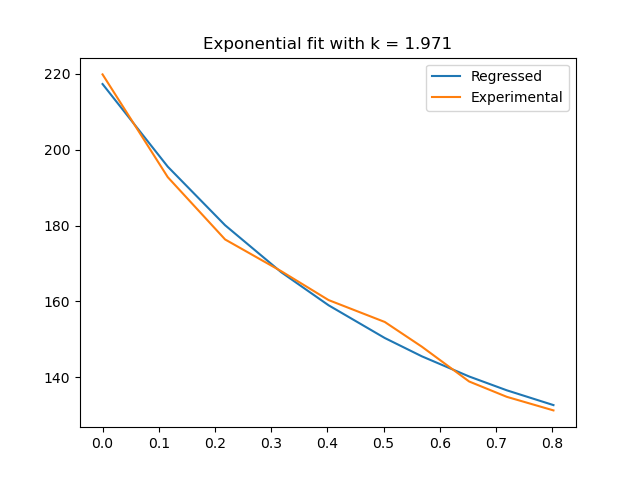
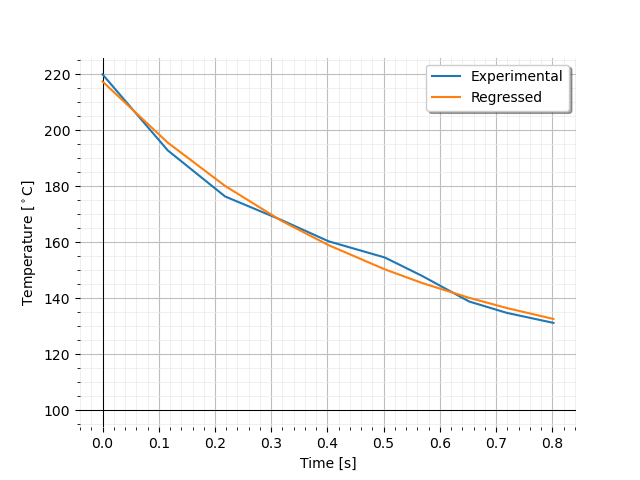
optimized cooling rate script

diff --git a/temperature_history.py b/temperature_history.py
@@ -14,12 +14,12 @@ is going to record the temperature of the point that measurement line 4 recorded
 
 '''
 To generate data:
-  pass the tow and the corresponding time array to the function get_temp_history(tow, time)
+  pass the time and tow arrays as well as the number of the tow to the function get_temp_history(time, tow, townum)
   returns:
       point_time -> array containing the time history of the point
       point_temp -> array containing the temperature history of the point
 
-version date: 27.04.2020
+version date: 11.05.2020
 Alex
 
 '''
@@ -65,230 +65,89 @@ def get_distances(tow, time):
     distances = []
     for i in range(len(times)):
         try:
-            dist = (times[i + 1] - times[i]) * Vel
+            dist = (float(times[i + 1]) - float(times[i])) * Vel
             distances.append(dist)
         except:
             pass
 
-    return distances
+    return np.asarray(distances)
 
 #Helper function, find the element in an array that is nearest to a specific value
 def find_nearest(array,value):
     idx = np.searchsorted(array, value, side="left")
     if idx > 0 and (idx == len(array) or np.absolute(value - array[idx-1]) < np.absolute(value - array[idx])):
-        return array[idx-1]
+        return idx-1
     else:
-        return array[idx]
+        return idx
 
 
 #Final function returns the shifted time (stating from 0) and temperature histories
-def get_temp_history(tow, time):
-    distances = np.array(get_distances(tow, time))
-    time_dist = distances / Vel
+def get_temp_history(time, tow, townum, sample_idx=400):
+    distances = line_distances[townum-1]
+    time_dist = np.zeros(numLines)
+    time_dist[1:] = distances / Vel
 
     for i in range(1, len(time_dist)):
-        try:
-            time_dist[i] += time_dist[i - 1]
-        except:
-            pass
+        time_dist[i] += time_dist[i - 1]
 
-    start_time = time[400]
-    point_time = [time[400]]
-    point_temp = [tow[0][400]]
+    start_time = time[sample_idx]
+    
+    point_temp = np.zeros(numLines)
+    point_temp[0] = tow[0][sample_idx]
 
     time_offset = time_dist + start_time
-    time_offset = list(time_offset.flatten())
-
-    index_table = []
-    for i in range(len(time_offset)):
-        idx = find_nearest(time, time_offset[i])
-        index_table.append(np.where(time==idx))
-
-
-    for i in range(len(time_offset)):
-        temp = float(tow[i + 1][index_table[i]])
-        point_temp.append(temp)
-
-    point_time += time_offset
+    index_table = np.zeros(numLines - 1, dtype=np.int32)
     
-    time_dist = list(time_dist.flatten())
-    time_dist.insert(0, 0)
-    
+    for i in range(len(time_offset) - 1):
+        idx = find_nearest(time, time_offset[i + 1])
+        index_table[i] = idx
+
+    for i in range(len(index_table)):
+        temp = tow[i + 1][index_table[i]]
+        point_temp[i + 1] = temp
 
     return(time_dist, point_temp)
 
+# Define function to fit
 def func(t, A, B, k):
     return A + B * np.exp(-k * t)
-    
+
+# Distances between measurement lines for each tow
+line_distances = np.asarray([get_distances(back['Exp1'][0].tows[i], back['Exp1'][0].time) for i in range(numTows)])
 
 if __name__ == '__main__':
+    time = back['Exp1'][0].time
+    tow = back['Exp1'][0].tow1
 
-    P13_1 = [[], []]
-    P15_1 = [[], []]
-    P175_1 = [[], []]
-
-    P13_3 = [[], []]
-    P15_3 = [[], []]
-    P175_3 = [[], []]
-
-    P13_5 = [[], []]
-    P15_5 = [[], []]
-    P175_5 = [[], []]
-
-    P13_7 = [[], []]
-    P15_7 = [[], []]
-    P175_7 = [[], []]
+    t, temp = get_temp_history(time, tow, 1)
     
-    for exp in back.values():
-        for i in ['1', '3', '5', '7']:
-            
-            time = exp[0].time
-            tow = eval('exp[0].tow' + i)
-            t, temp = get_temp_history(tow, time)
+    #Make initial guesses for the parameters 
+    k0 = 0.5
+    coeff = np.exp(-k0 * t[-1])
+    A = np.array([1, 1, 1, coeff]).reshape(2,2)
+    B = np.array([temp[0], temp[-1]]).reshape(2, 1)
 
-            #Make initial guesses for the parameters 
-            k0 = 0.5
-            coeff = np.exp(-k0 * t[-1])
-            A = np.array([1, 1, 1, coeff]).reshape(2,2)
-            B = np.array([temp[0], temp[-1]]).reshape(2, 1)
+    A0, B0 = np.linalg.solve(A, B)
+    A0 = float(A0)
+    B0 = float(B0)
 
-            A0, B0 = np.linalg.solve(A, B)
-            A0 = float(A0)
-            B0 = float(B0)
+    #Fit exponential curve of form A + Be^(-kt) to experimental data
 
-            #Fit exponential curve of form A + Be^(-kt) to experimental data
+    params = scipy.optimize.curve_fit(func, t, temp, p0=[A0, B0, k0])[0]
 
-            params = scipy.optimize.curve_fit(func, t, temp, p0=[A0, B0, k0])[0]
+    A = params[0]
+    B = params[1]
+    k = params[2]
 
-            k = params[2]
-            P = exp[1][0]
-            F = exp[1][1]
+    fit = func(t, A, B, k)
 
-            if i == '1':
+    plt.plot(t, fit, label='fit')
+    plt.plot(t, temp, label='experimental')
+    plt.legend()
+    plt.show()
 
-                if P == 1300:
-                    P13_1[0].append(F)
-                    P13_1[1].append(k)
-
-                if P == 1500:
-                    P15_1[0].append(F)
-                    P15_1[1].append(k)
-
-                if P == 1750:
-                    P175_1[0].append(F)
-                    P175_1[1].append(k)
-
-            if i == '3':
-
-                if P == 1300:
-                    P13_3[0].append(F)
-                    P13_3[1].append(k)
-
-                if P == 1500:
-                    P15_3[0].append(F)
-                    P15_3[1].append(k)
-
-                if P == 1750:
-                    P175_3[0].append(F)
-                    P175_3[1].append(k)
-
-            if i == '5':
-
-                if P == 1300:
-                    P13_5[0].append(F)
-                    P13_5[1].append(k)
-
-                if P == 1500:
-                    P15_5[0].append(F)
-                    P15_5[1].append(k)
-
-                if P == 1750:
-                    P175_5[0].append(F)
-                    P175_5[1].append(k)
-
-            if i == '7':
-
-                if P == 1300:
-                    P13_7[0].append(F)
-                    P13_7[1].append(k)
-
-                if P == 1500:
-                    P15_7[0].append(F)
-                    P15_7[1].append(k)
-
-                if P == 1750:
-                    P175_7[0].append(F)
-                    P175_7[1].append(k)
                     
 
-    plt.xlabel('Force $[N]$')
-    plt.ylabel('Cooling constant $k\ [s^{-1}]$')
-    plt.box()
-    plt.axhline(y=0, color='k', linewidth=0.75)
-    plt.axvline(x=0, color='k', linewidth=0.75)
-    plt.grid(b=True, which='major', color='#bebebe', linestyle='-')
-    plt.grid(b=True, which='minor', color='#e9e9e9', linestyle='-', linewidth=0.5)
-    plt.minorticks_on()
-    plt.xticks([100, 500, 1000])
-    plt.plot(P13_1[0], P13_1[1], color='r', label='$1300\ W$')
-    plt.plot(P15_1[0], P15_1[1], color='g', label='$1500\ W$')
-    plt.plot(P175_1[0], P175_1[1], color='b', label='$1750\ W$')
-    plt.title('Cooling rate versus Power for Tow 1')
-    plt.legend(loc="best", fancybox = True, shadow = True)
-    plt.savefig('cooling/fit/Tow1.png')
-    plt.clf()
-
-    plt.xlabel('Force $[N]$')
-    plt.ylabel('Cooling constant $k\ [s^{-1}]$')
-    plt.box()
-    plt.axhline(y=0, color='k', linewidth=0.75)
-    plt.axvline(x=0, color='k', linewidth=0.75)
-    plt.grid(b=True, which='major', color='#bebebe', linestyle='-')
-    plt.grid(b=True, which='minor', color='#e9e9e9', linestyle='-', linewidth=0.5)
-    plt.minorticks_on()
-    plt.xticks([100, 500, 1000])
-    plt.plot(P13_7[0], P13_7[1], color='r', label='$1300\ W$')
-    plt.plot(P15_7[0], P15_7[1], color='g',label='$1500\ W$')
-    plt.plot(P175_7[0], P175_7[1], color='b', label='$1750\ W$')
-    plt.title('Cooling rate versus Power for Tow 7')
-    plt.legend(loc="best", fancybox = True, shadow = True)
-    plt.savefig('cooling/fit/Tow7.png')
-    plt.clf()
-
-    
-    plt.xlabel('Force $[N]$')
-    plt.ylabel('Cooling constant $k\ [s^{-1}]$')
-    plt.box()
-    plt.axhline(y=0, color='k', linewidth=0.75)
-    plt.axvline(x=0, color='k', linewidth=0.75)
-    plt.grid(b=True, which='major', color='#bebebe', linestyle='-')
-    plt.grid(b=True, which='minor', color='#e9e9e9', linestyle='-', linewidth=0.5)
-    plt.minorticks_on()
-    plt.xticks([100, 500, 1000])
-    plt.plot(P13_3[0], P13_3[1], color='c', label='$1300\ W$')
-    plt.plot(P15_3[0], P15_3[1], color='m', label='$1500\ W$')
-    plt.plot(P175_3[0], P175_3[1], color='y', label='$1750\ W$')
-    plt.title('Cooling rate versus Power for Tow 3')
-    plt.legend(loc="best", fancybox = True, shadow = True)
-    plt.savefig('cooling/fit/Tow3.png')
-    plt.clf()
-
-    plt.xlabel('Force $[N]$')
-    plt.ylabel('Cooling constant $k\ [s^{-1}]$')
-    plt.box()
-    plt.axhline(y=0, color='k', linewidth=0.75)
-    plt.axvline(x=0, color='k', linewidth=0.75)
-    plt.grid(b=True, which='major', color='#bebebe', linestyle='-')
-    plt.grid(b=True, which='minor', color='#e9e9e9', linestyle='-', linewidth=0.5)
-    plt.minorticks_on()
-    plt.xticks([100, 500, 1000])
-    plt.plot(P13_5[0], P13_5[1], color='c', label='$1300\ W$')
-    plt.plot(P15_5[0], P15_5[1], color='m', label='$1500\ W$')
-    plt.plot(P175_5[0], P175_5[1], color='y', label='$1750\ W$')
-    plt.title('Cooling rate versus Power for Tow 5')
-    plt.legend(loc="best", fancybox = True, shadow = True)
-    plt.savefig('cooling/fit/Tow5.png')
-    plt.clf()
 
 
           
